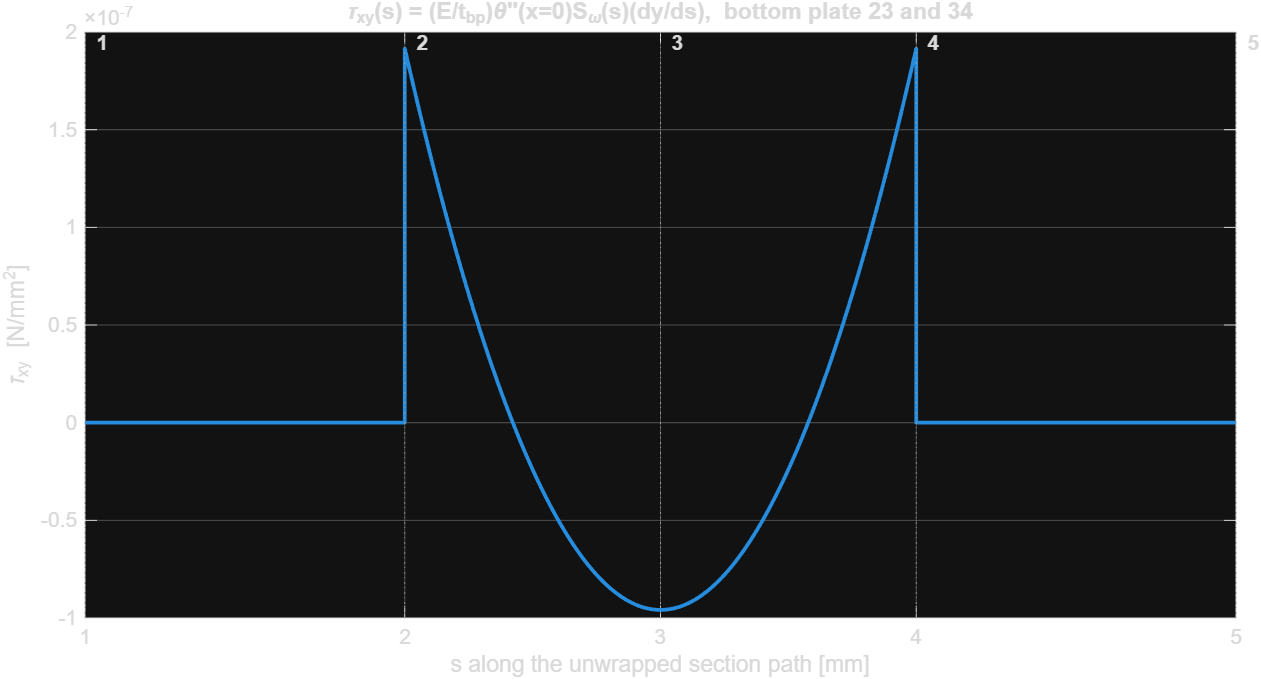
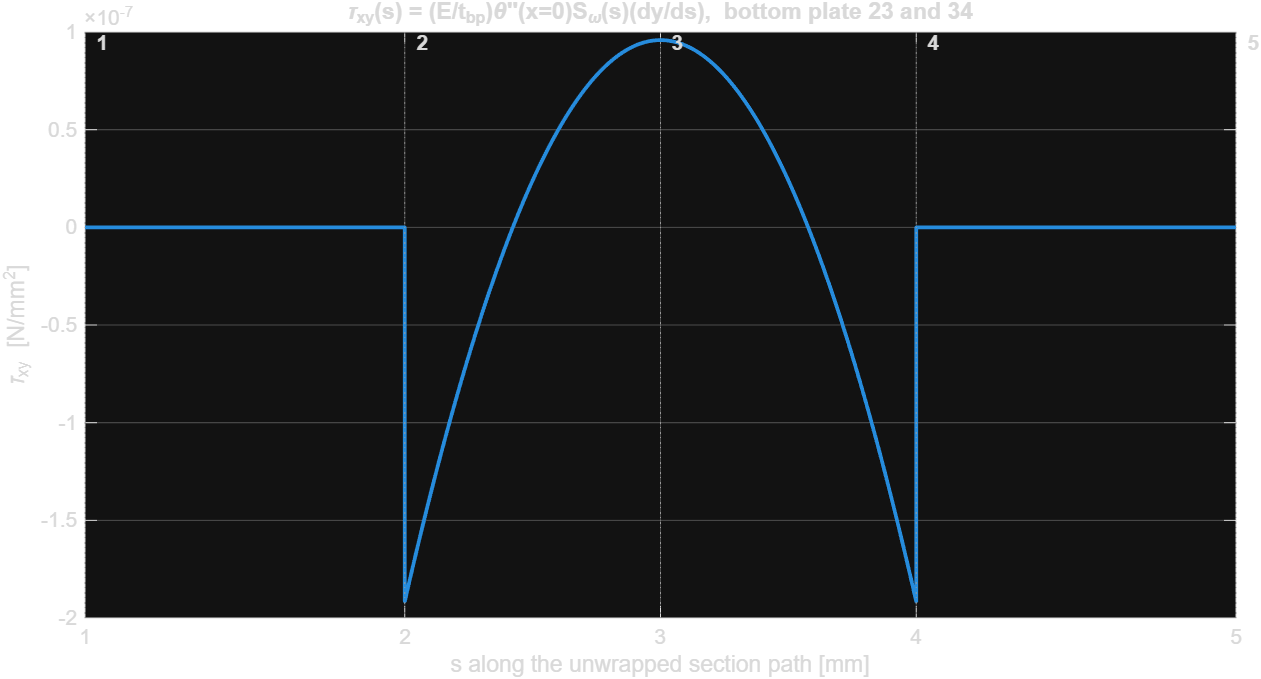
Updates from Overleaf

diff --git a/bonus.tex b/bonus.tex
@@ -1,0 +1,99 @@
+\chapter{Bonus: Strain Decomposition}
+\label{ch:bonus}
+
+\begingroup\itshape Bonus question --- 5 points\endgroup
+
+
+\section{Decomposition of the measured strains}
+\label{sec:b1-1}
+
+\paragraph{Method.} \textcite{ChoiKang2003} find the hull girder loads of a container ship from four long-base gauges in one cross-section, two at the top and two at the bottom. The strain in gauge $i$ is the sum of four parts,
+\begin{equation}
+  \varepsilon_i = \varepsilon_{iy} + \varepsilon_{iz} + \varepsilon_{iw} + \varepsilon_{iT} ,
+  \label{eq:b-sum}
+\end{equation}
+from horizontal bending ($y$), vertical bending ($z$), warping torsion ($w$) and St.\ Venant torsion ($T$). Each part has a known shape over the section, so its value in a gauge is a fixed ratio times its value in gauge 1. Horizontal bending is linear in $y$, so it has the opposite sign on port and starboard. Vertical bending is linear in the distance to the neutral axis: $z_T$ for the top gauges and $-z_B$ for the bottom gauges. The warping strain is $\varphi''\omega$ (Eq.~\ref{eq:a7-strain}), so it follows the sectorial coordinate of the gauge. The St.\ Venant part is the same in all four gauges. This gives four equations with four unknowns:
+\begin{equation}
+  \bar\varepsilon_m = \bar A\,\bar\varepsilon , \qquad
+  \bar A =
+  \begin{bmatrix}
+    -1 & 1 & 1 & 1\\
+    1 & 1 & -1 & 1\\
+    y_B/y_T & -z_B/z_T & \omega_3/\omega_1 & 1\\
+    -y_B/y_T & -z_B/z_T & -\omega_3/\omega_1 & 1
+  \end{bmatrix} , \qquad
+  \bar\varepsilon =
+  \begin{bmatrix} \varepsilon_y\\ \varepsilon_z\\ \varepsilon_w\\ \varepsilon_T \end{bmatrix} ,
+  \label{eq:b-system}
+\end{equation}
+where $\bar\varepsilon_m$ holds the four readings and $\bar\varepsilon$ the four parts in gauge 1. The decomposed strains follow from $\bar\varepsilon = \bar A^{-1}\bar\varepsilon_m$.\footnote{In the third column of $\bar A$ the paper writes $U_1/U_3$. With its own Eq.~(A1), $\sigma_{iw} = E\,U_i\,\mathrm{d}w/\mathrm{d}x$, this ratio should be $U_3/U_1$, which is $\omega_3/\omega_1$ here. For these readings it makes no difference, because $\varepsilon_w = 0$.}
+
+Figure~14 of the brief numbers the gauges clockwise, the paper counter-clockwise. This is the same layout seen from the other end of the ship: gauges 1 and 2 are at the top, 1 and 4 are on the same side and 1 and 3 are on a diagonal. So $\bar A$ can be used as it is.
+
+\paragraph{Input for section BU.} The section is the U-section of Assignment~4: $A = 8a$, $B = 5a$, $t_{bp} = 6.5t_p$ and $t_{sp} = 3.5t_p$, with $z = 0$ at the bottom plate. All four gauges are on the side shells, so $y_B/y_T = 1$. The neutral axis of vertical bending lies at
+\begin{equation}
+  z_{na} = \frac{2\,Bt_{sp}\cdot B/2}{A\,t_{bp} + 2\,Bt_{sp}} = \frac{87.5}{87}\,a = 1.006\,a ,
+\end{equation}
+so $z_T = 3.994a$, $z_B = 1.006a$ and $z_B/z_T = 0.252$. Because of the thick bottom plate the neutral axis is low.
+
+For warping we use $\omega$ from Section~\ref{sec:a2-5}, with the pole at CT. Gauge 1 is point 1 there, gauge 2 is point 5, gauge 3 is point 4 and gauge 4 is point 2, so (subscript = gauge number)
+\begin{equation}
+  \omega_1 = +13.31a^2,\qquad \omega_2 = -13.31a^2,\qquad \omega_3 = +6.69a^2,\qquad \omega_4 = -6.69a^2 .
+\end{equation}
+This is the same sign pattern as in the paper, with $\omega_3/\omega_1 = 0.502$.
+
+\paragraph{Solution.} Filling in gives
+\begin{equation}
+  \bar A =
+  \begin{bmatrix}
+    -1 & 1 & 1 & 1\\
+    1 & 1 & -1 & 1\\
+    1 & -0.252 & 0.502 & 1\\
+    -1 & -0.252 & -0.502 & 1
+  \end{bmatrix} ,
+  \qquad
+  |\det\bar A| = 4\left(1+\frac{\omega_3}{\omega_1}\right)\left(1+\frac{z_B}{z_T}\right) = 7.52 .
+\end{equation}
+This is not zero, so $\bar A$ can be inverted:
+\begin{equation}
+  \bar\varepsilon = \bar A^{-1}\,\bar\varepsilon_m =
+  \begin{bmatrix}
+    -0.167 & 0.167 & 0.333 & -0.333\\
+    0.399 & 0.399 & -0.399 & -0.399\\
+    0.333 & -0.333 & 0.333 & -0.333\\
+    0.101 & 0.101 & 0.399 & 0.399
+  \end{bmatrix}
+  \begin{bmatrix} -10\\ -10\\ 10\\ 10 \end{bmatrix}
+  =
+  \begin{bmatrix} 0\\ -15.98\\ 0\\ 5.98 \end{bmatrix}\mu\varepsilon .
+\end{equation}
+Multiplying each column of $\bar A$ by its part gives the strains per gauge in Table~\ref{tab:b-decomp}.
+
+\begin{table}[H]
+  \centering
+  \caption{Decomposed strains per gauge [$\mu\varepsilon$].}
+  \label{tab:b-decomp}
+  \begin{tabular}{llccccc}
+    \toprule
+    Gauge & Position & Hor.\ bending & Vert.\ bending & Warping & St.\ Venant & Total \\
+    \midrule
+    1 & top left     & 0 & $-15.98$ & 0 & 5.98 & $-10$ \\
+    2 & top right    & 0 & $-15.98$ & 0 & 5.98 & $-10$ \\
+    3 & bottom right & 0 & 4.02     & 0 & 5.98 & 10 \\
+    4 & bottom left  & 0 & 4.02     & 0 & 5.98 & 10 \\
+    \bottomrule
+  \end{tabular}
+\end{table}
+
+\paragraph{Discussion.} The readings are the same on port and starboard. Horizontal bending and warping are both antisymmetric, so they are zero. This can be seen directly in $\bar A^{-1}$: $\varepsilon_y$ and $\varepsilon_w$ only use the differences between port and starboard, and $\varepsilon_z$ and $\varepsilon_T$ only the sums (the same idea as in Section~\ref{sec:a7-2}).
+
+What is left is compression at the top and tension at the bottom, so the section is in sagging. Vertical bending alone cannot give the same strain at the top and the bottom, because the neutral axis is low: with $-10\,\mu\varepsilon$ at the top, pure bending would give only $0.252\cdot10 = 2.5\,\mu\varepsilon$ at the bottom. The method puts the rest in the part that is the same in all gauges, the St.\ Venant part:
+\begin{equation}
+  \varepsilon_z = -20\,\frac{z_T}{z_T+z_B} = -15.98\,\mu\varepsilon ,\qquad
+  \varepsilon_T = 10\,\frac{z_T-z_B}{z_T+z_B} = 5.98\,\mu\varepsilon .
+\end{equation}
+So $\varepsilon_T$ would only be zero if the neutral axis were at half the depth.
+
+This last part has to be used with care. In linear theory St.\ Venant torsion gives no longitudinal strain at all. In the paper it is a second-order effect, $T_p = \sqrt{2}\,GJ\sqrt{\varepsilon_T}/l$ (their Table~1), so it can only be positive, which is true here. But an axial force or a temperature change also gives the same strain in all four gauges, and four gauges cannot tell these apart. So the $5.98\,\mu\varepsilon$ is not necessarily caused by a torque.
+
+\finalanswer{$\bar\varepsilon = [\varepsilon_y,\ \varepsilon_z,\ \varepsilon_w,\ \varepsilon_T]^T = [0,\ -15.98,\ 0,\ 5.98]^T\,\mu\varepsilon$ (parts in gauge 1). Horizontal bending: $0$ in all gauges. Warping torsion: $0$ in all gauges. Vertical bending (sagging): $-15.98\,\mu\varepsilon$ in the top gauges 1 and 2 and $+4.02\,\mu\varepsilon$ in the bottom gauges 3 and 4. St.\ Venant torsion: $+5.98\,\mu\varepsilon$ in all four gauges.}

diff --git a/assignment4.tex b/assignment4.tex
@@ -298,8 +298,33 @@ Where $\omega_s$ has already be predetermined in 2.5. and $\frac{\partial^2 \the
         \label{fig:tauxy}
     \end{minipage}
 \end{figure}
-```
+
+\begin{figure}[h]
+    \centering
+    \begin{minipage}[t]{0.48\linewidth}
+        \centering
+        \includegraphics[width=\linewidth]{tauXZ_numerical.png}
+        \caption{Numerical ANSYS $\tau_{xz} $ results}
+        \label{fig:tauXZ_numerical}
+    \end{minipage}
+    \hfill
+    \begin{minipage}[t]{0.48\linewidth}
+        \centering
+        \includegraphics[width=\linewidth]{TauXYnumerical.png}
+        \caption{Numerical ANSYS $\tau_{xy} $ results}
+        \label{fig:TauXYnumerical}
+    \end{minipage}
+\end{figure}
+
+
+  \item Discussion of comparison.\\
+
+  The results between the numerical and analytical differs in some parts of the graphs. the $\tau_{xz}$ seems to have the right shape in the non zerop parts of the function however they have shifted into the negative region. This is most likely due to the boundary conditions, that Point 2 and 4 must be equal to zero.\\
+
+  the $\tau_{xy}$ Look much more alike, only that the analytical calculates the shear stress to be higher than the numerical does. This is most likely cuased by the thim walled assumptions in the analytical model.\\
   
-  \item Discussion of through-thickness and $s$-distribution and maxima.
-        \textbf{(2 pts)} \\ \tbd{discussie}
+
+  Overall, $\tau_{xz}$ analytical method is not very accurate to determine the shear stress. However, the $\tau_{xy}$ seems to be accurate enough.
+
+  
 \end{enumerate}

diff --git a/report.tex b/report.tex
@@ -96,6 +96,7 @@
 \include{assignment5}
 \include{assignment6}
 \include{assignment7}
+\include{bonus}
 
 % Use letters for the chapter numbers of the appendices.
 \appendix
